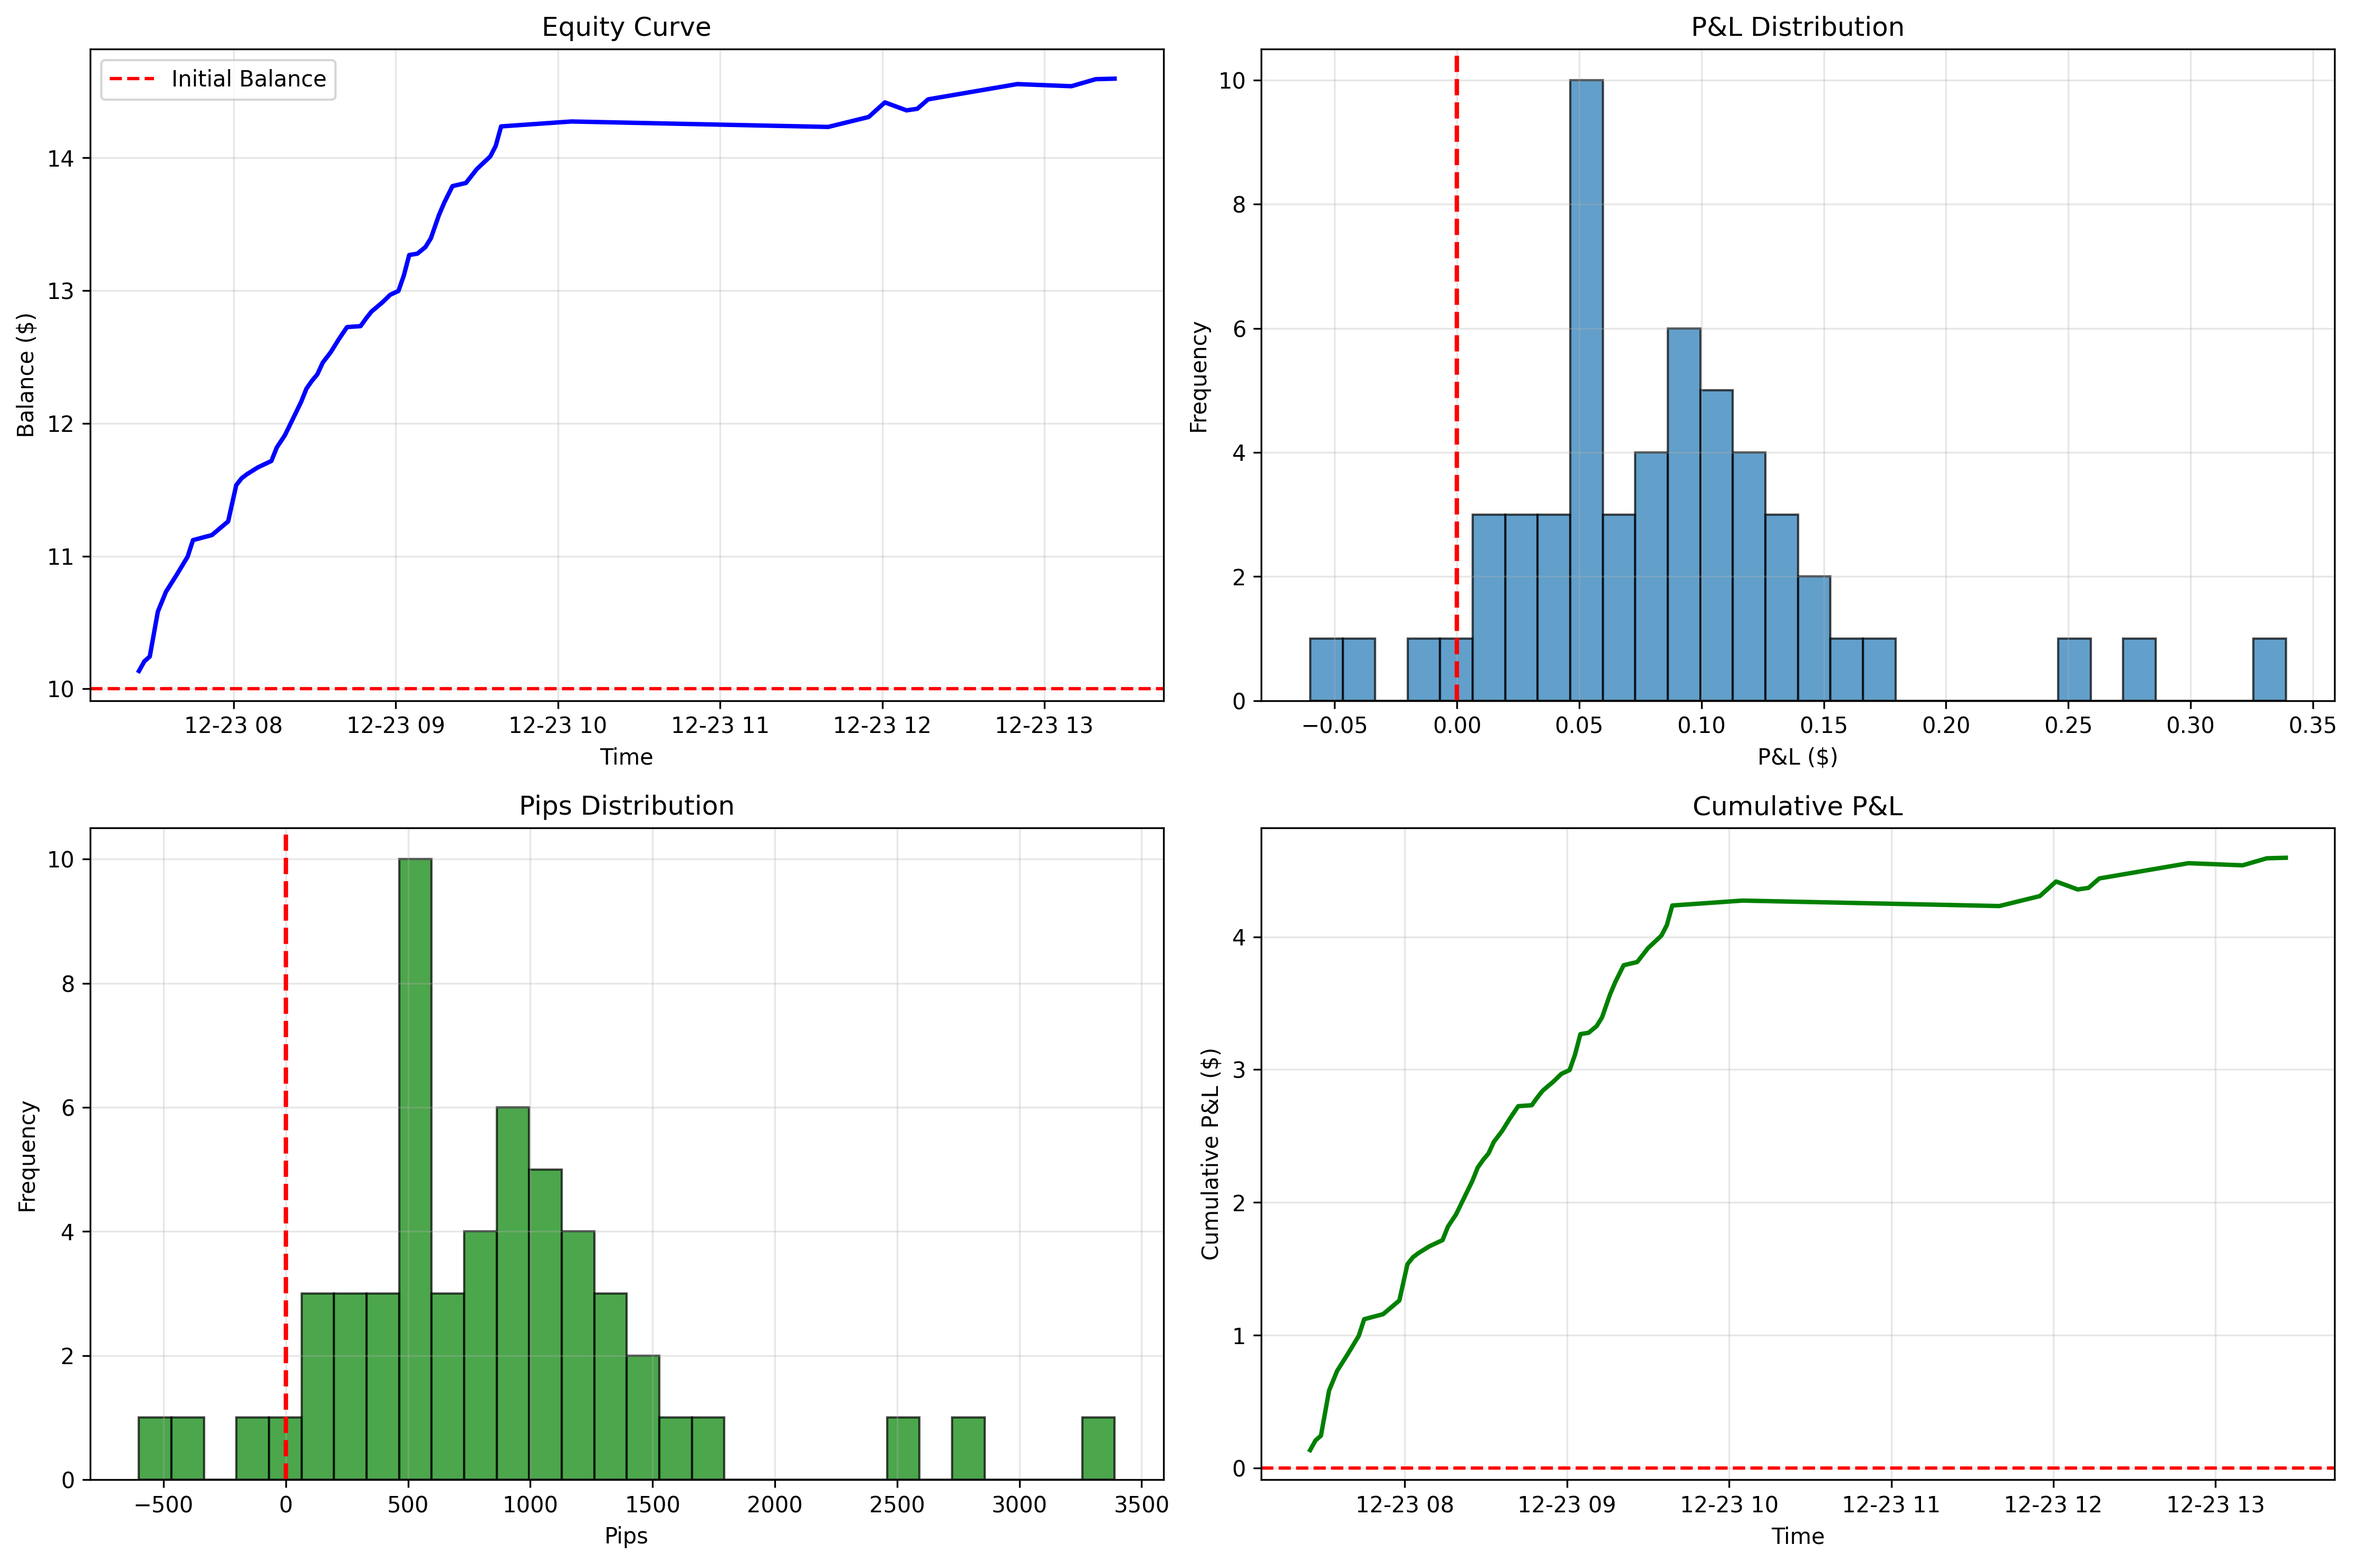
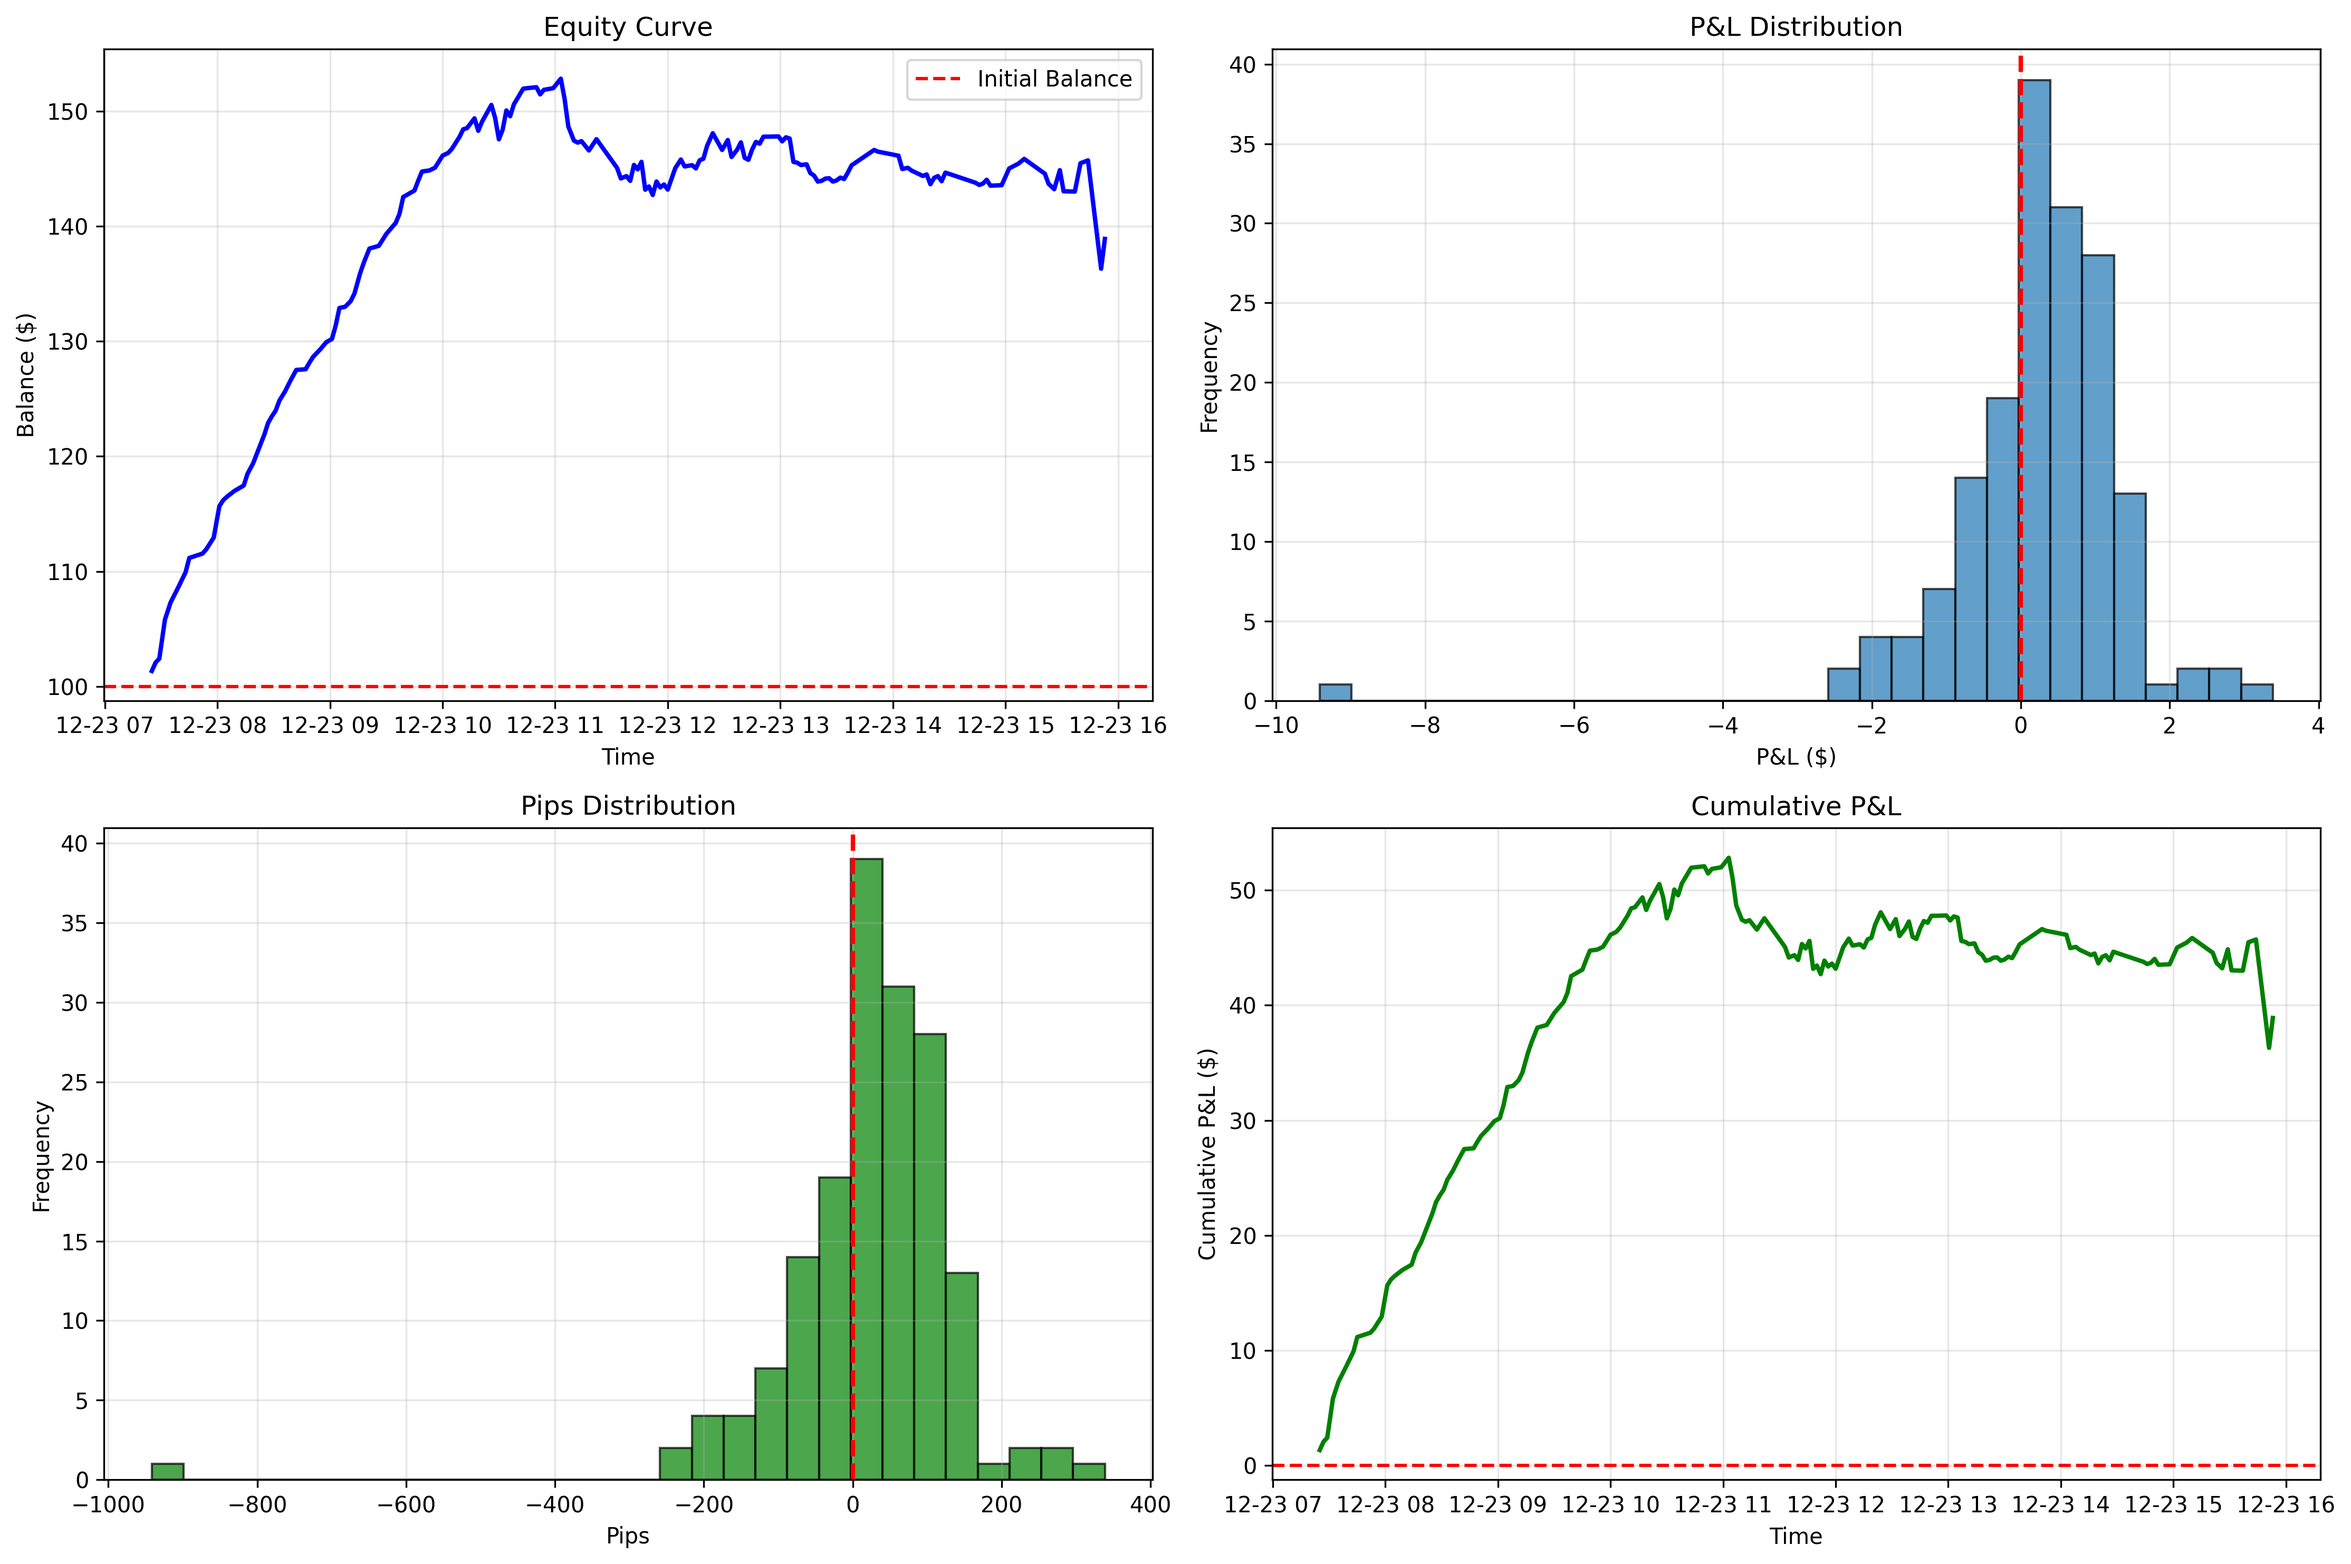
minor changes

diff --git a/backtest.py b/backtest.py
@@ -418,9 +418,9 @@ if __name__ == "__main__":
     import argparse
 
     parser = argparse.ArgumentParser(description='Backtest scalping strategy')
-    parser.add_argument('--balance', type=float, default=10, help='Initial balance')
-    parser.add_argument('--lot-size', type=float, default=0.001, help='Position size')
-    parser.add_argument('--threshold', type=float, default=0.7, help='Prediction threshold')
+    parser.add_argument('--balance', type=float, default=100, help='Initial balance')
+    parser.add_argument('--lot-size', type=float, default=0.01, help='Position size')
+    parser.add_argument('--threshold', type=float, default=0.5, help='Prediction threshold')
     args = parser.parse_args()
 
     # Find latest model

diff --git a/live_trade.py b/live_trade.py
@@ -34,7 +34,7 @@ class LiveScalpingTrader:
         self.take_profit_pips = 15
         self.trailing_stop_pips = 8  # Trailing stop
         self.max_daily_loss = 100
-        self.max_daily_trades = 20
+        self.max_daily_trades = 1440
         
         # Trading signals
         self.prediction_threshold = 0.5
